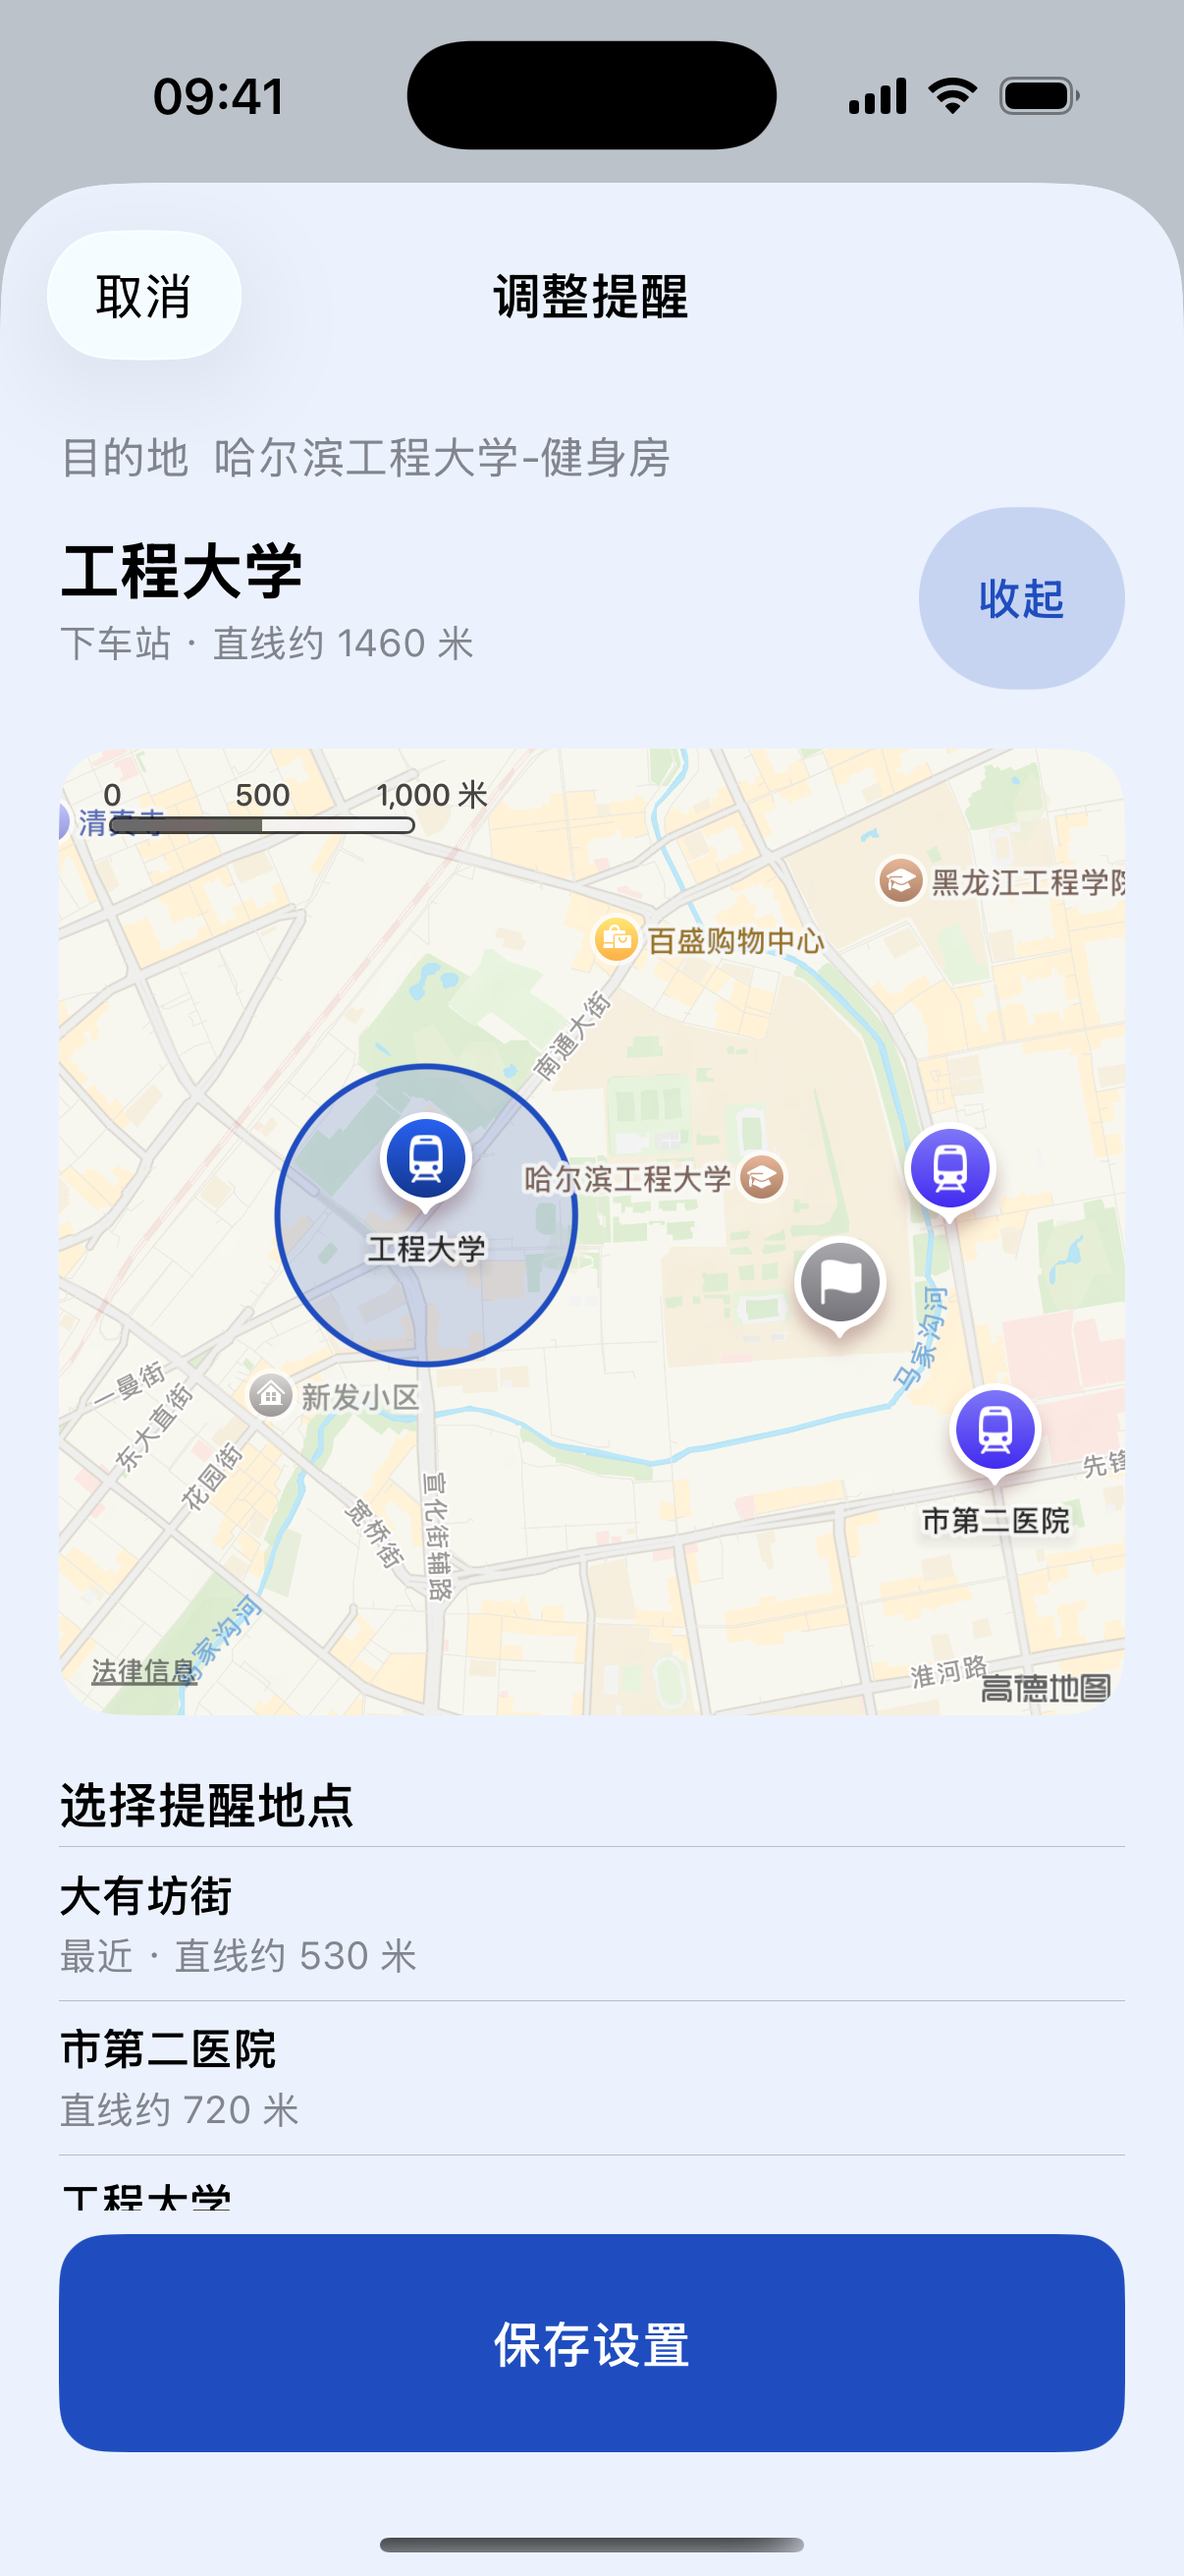
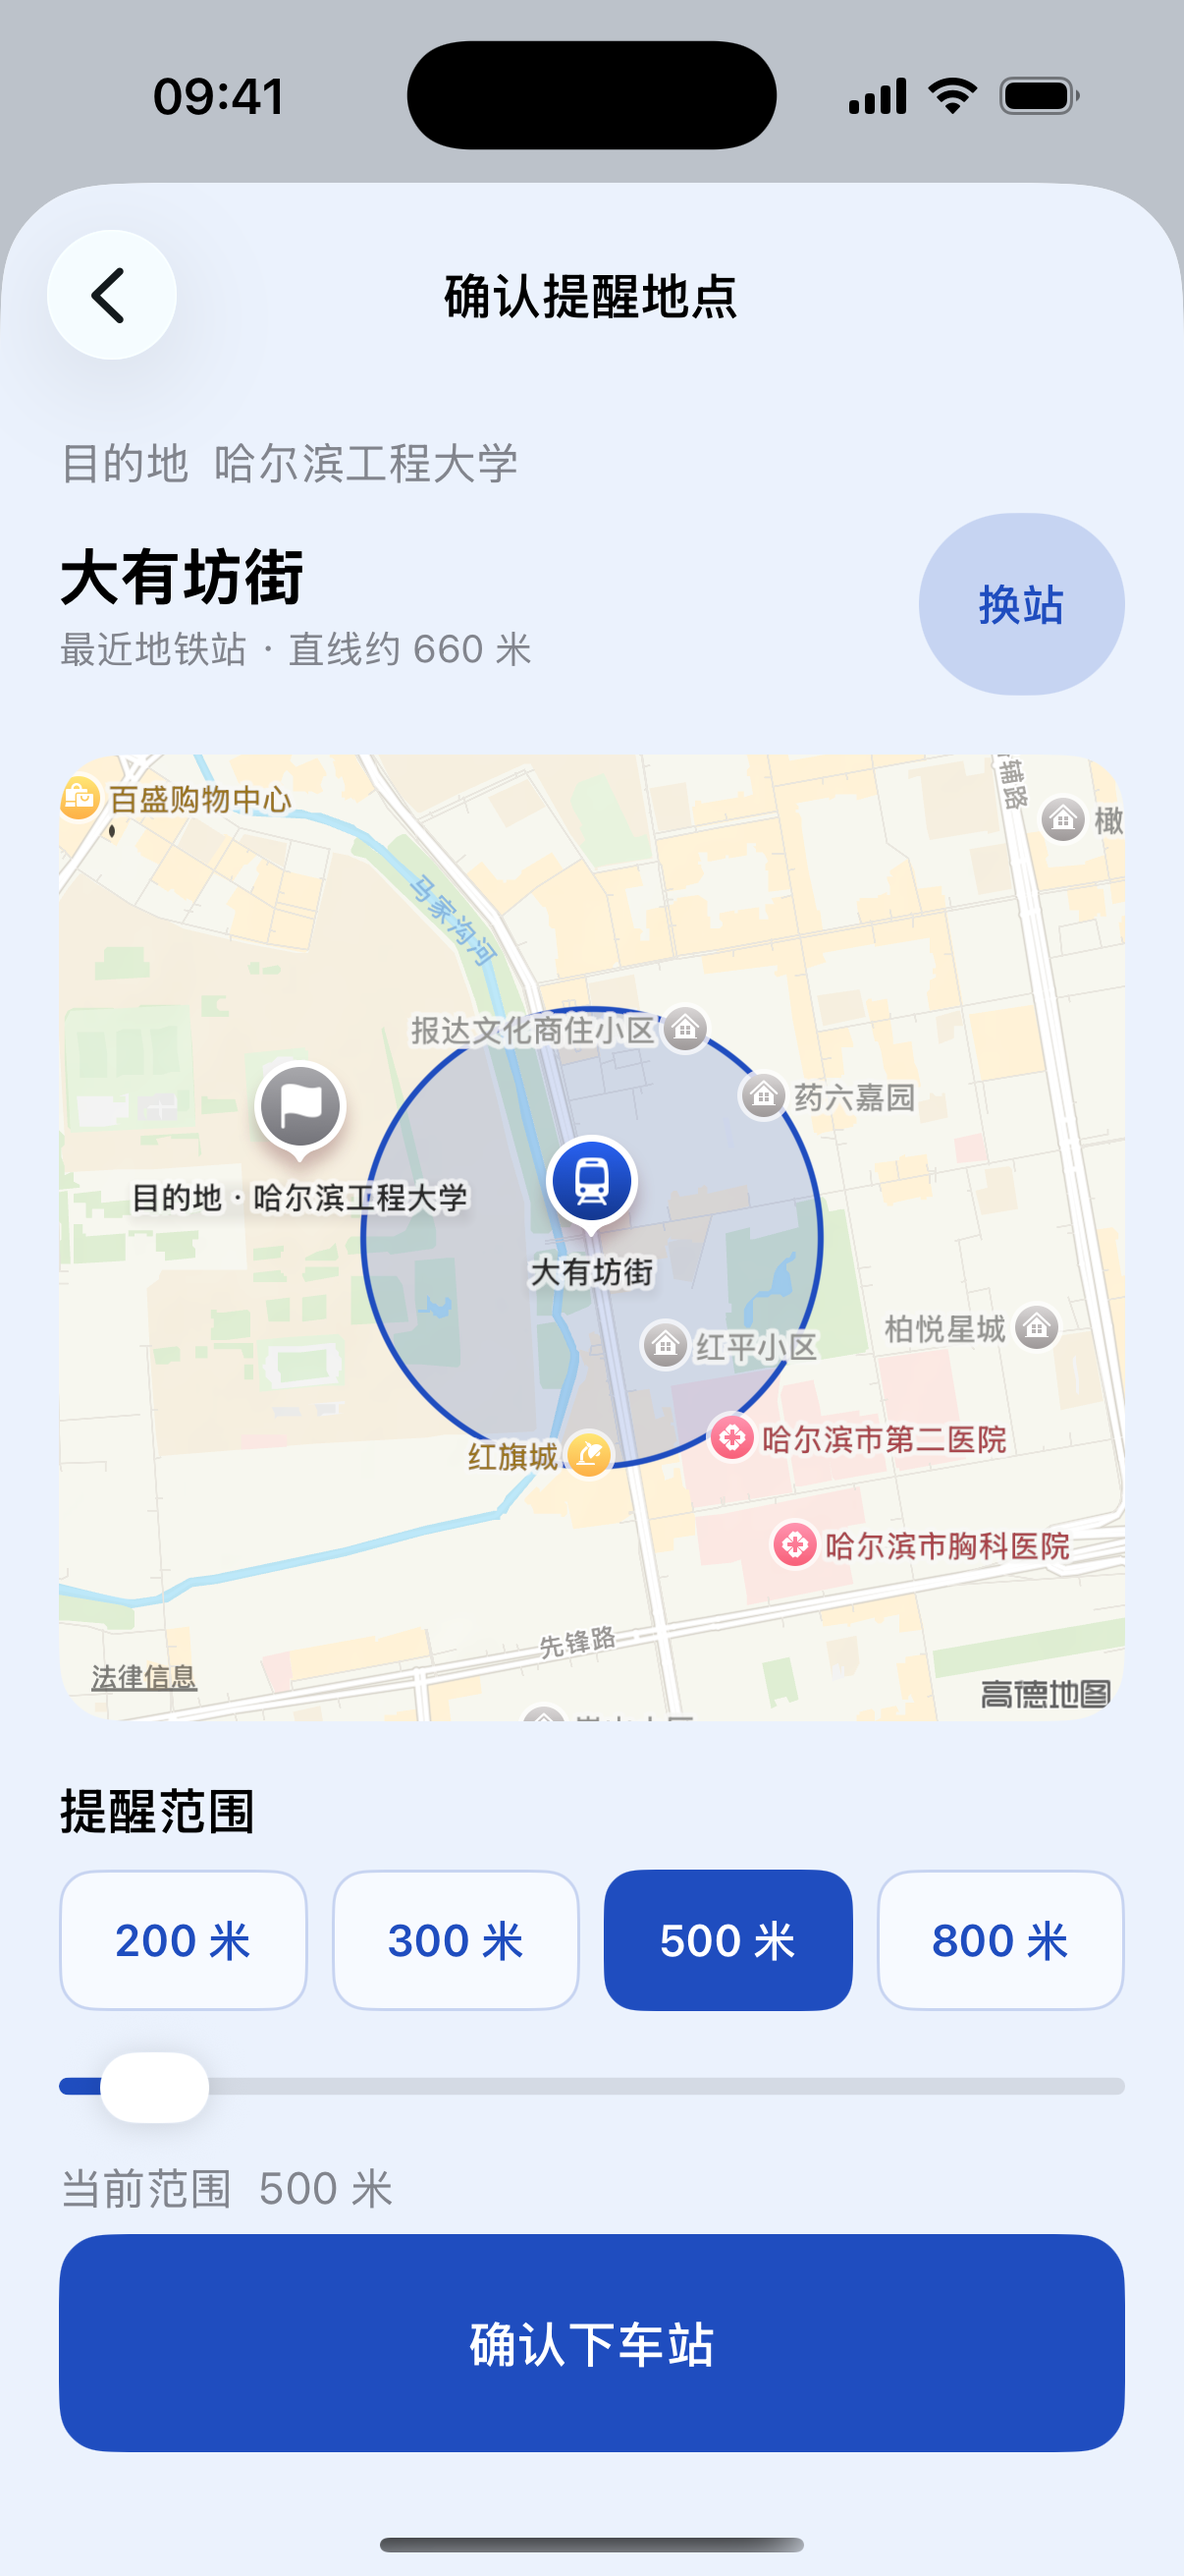
补充哈尔滨工程大学场景演示

diff --git a/README.md b/README.md
@@ -6,9 +6,13 @@
 
 > iOS 26 及以上 · 原型可从源码试用 · [查看验证进度](#当前进度)
 
+**哈尔滨工程大学演示**（iPhone 模拟器）。选站和范围 → 守候中 → 锁屏到站提醒 → 步行到学校。
+
 <p>
-  <img src="docs/screenshots/home.png" width="220" alt="首页显示下车站和提醒状态">
-  <img src="docs/screenshots/choose-station.png" width="220" alt="地图上的候选地铁站、目的地和蓝色提醒范围">
+  <a href="docs/screenshots/choose-station.png"><img src="docs/screenshots/choose-station.png" width="168" alt="目的地为哈尔滨工程大学，地图推荐大有坊街站并显示 500 米提醒范围"></a>
+  <a href="docs/screenshots/home.png"><img src="docs/screenshots/home.png" width="168" alt="大有坊街站守候中，首页显示距离并提示可以锁屏"></a>
+  <a href="docs/screenshots/lockscreen-arrival.png"><img src="docs/screenshots/lockscreen-arrival.png" width="168" alt="进入提醒范围后，锁屏出现快到站了通知"></a>
+  <a href="docs/screenshots/walking-route.png"><img src="docs/screenshots/walking-route.png" width="168" alt="下车后打开 Apple 地图，步行终点为哈尔滨工程大学"></a>
 </p>
 
 ## 怎么用
@@ -22,8 +26,10 @@
 
 - **常去的地点可以复用。** 保存上次选的地点和范围。首页显示「下次还会提醒」时，离开后再次进入同一范围可收到提醒，随时可以关闭。
 - **可以先试一下提醒。** 首页右上角打开「检查提醒」，可检查精确位置、锁屏通知，并发送一条 10 秒后的测试提醒。
-- **锁屏也能看守候状态。** 接入了 iPhone 锁屏实时活动、灵动岛和配对 Apple Watch 的智能叠放。控制中心和快捷指令可打开「开始上次守候」。
+- **锁屏也能看守候状态。** 接入了 iPhone 锁屏实时活动、灵动岛和配对 Apple Watch 的智能叠放。
 - **支持从地图带入地点。** 可从地图 App 的分享菜单发送地点，也可粘贴地点名、带坐标的地图链接或经纬度。
+
+常用同一站时，可打开控制中心，点「＋」→「添加控制」，搜索「别坐过站」并添加「开始上次守候」。以后点这个控件即可打开 App，用上次的地点和范围开始守候。也可在「快捷指令」App 里直接运行同名动作。
 
 ## 当前进度
 
